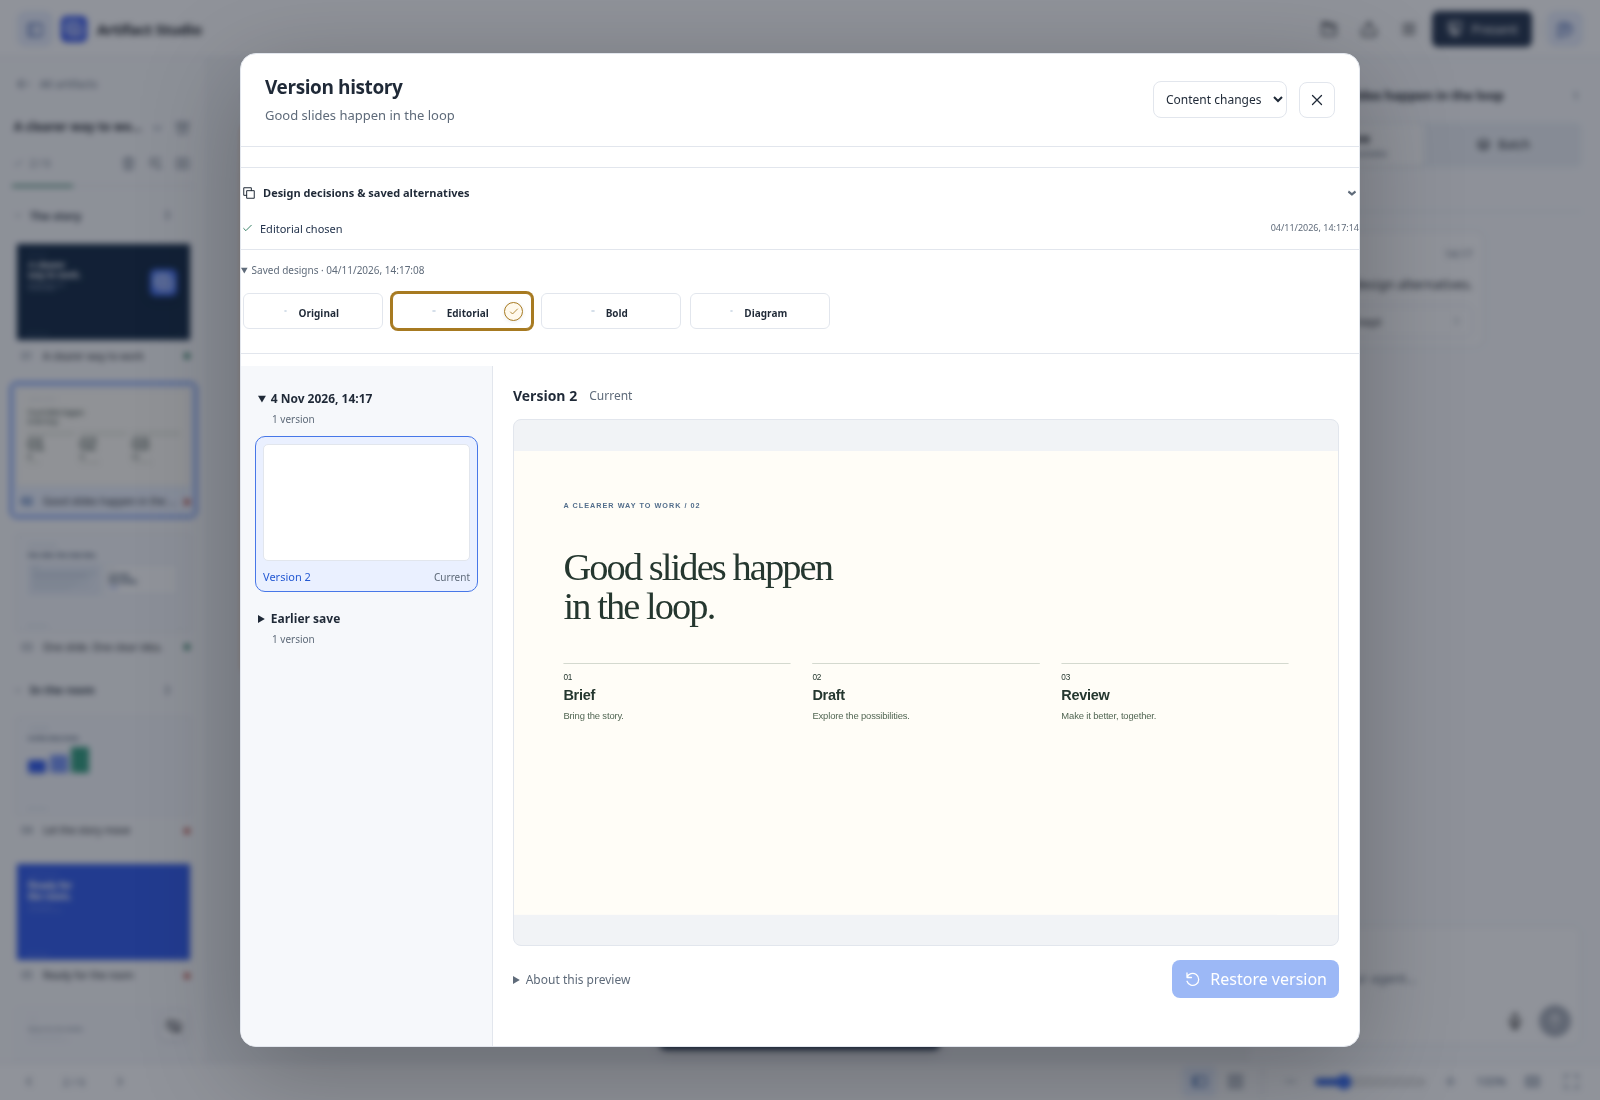
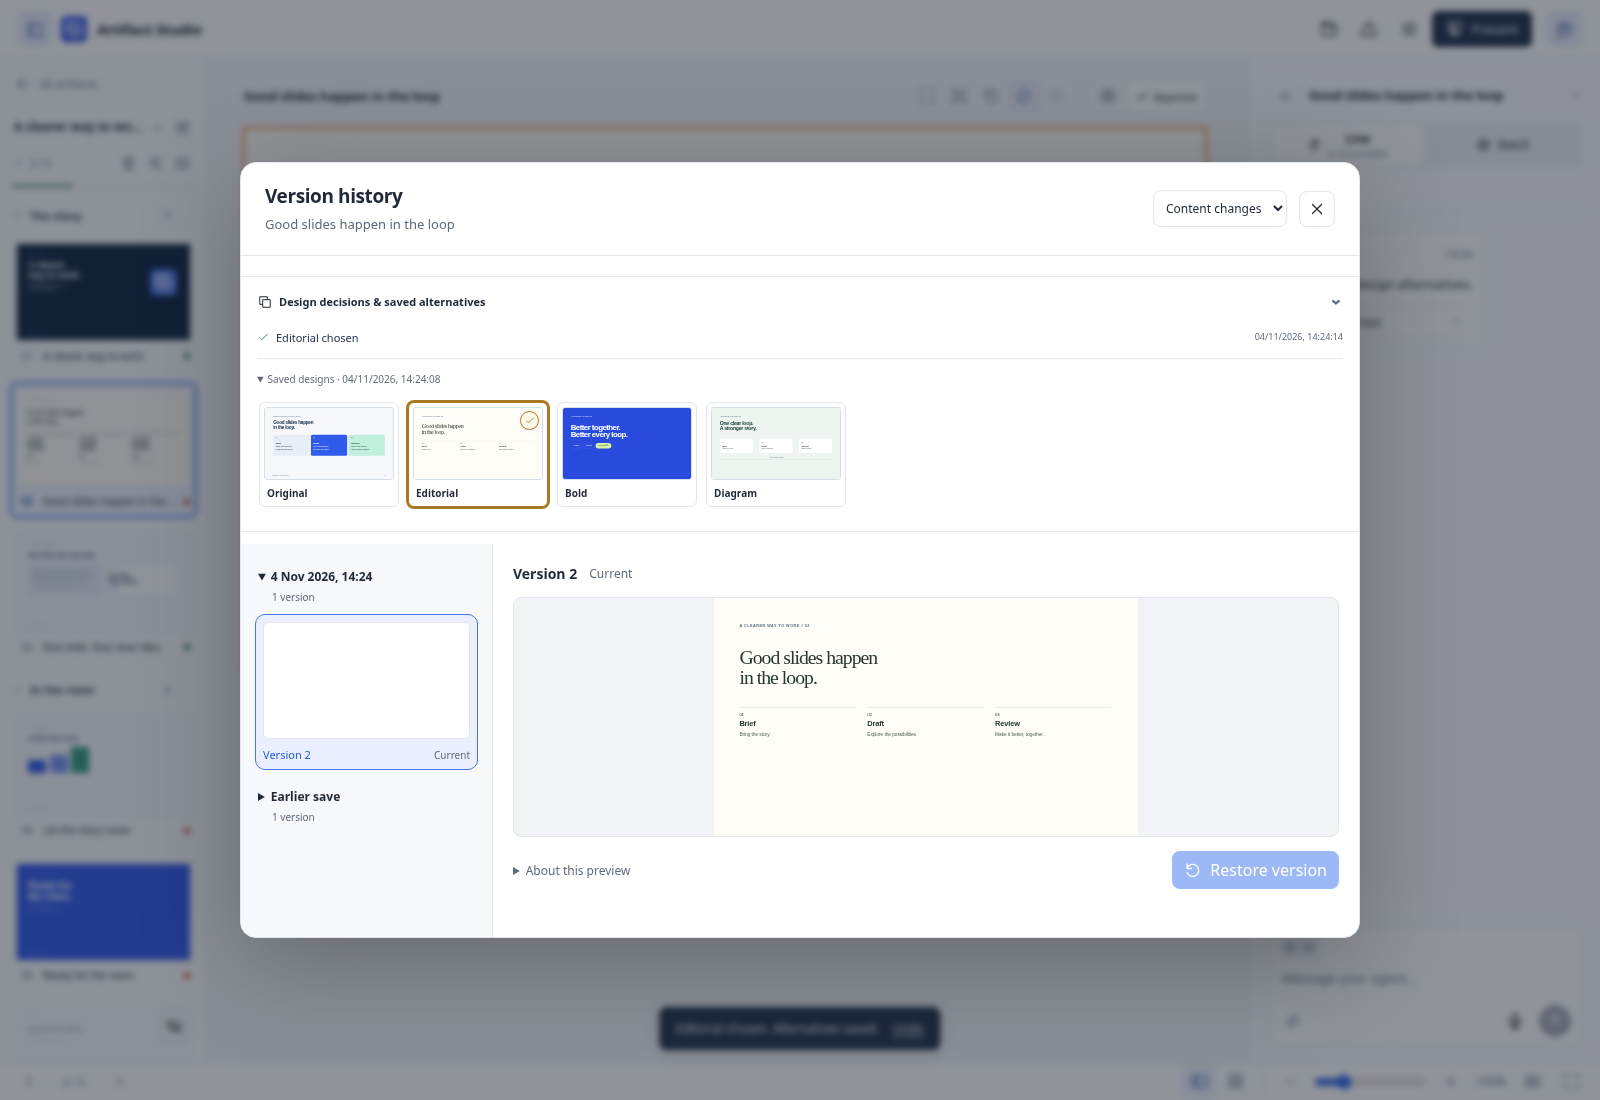
Keep saved design thumbnails readable and history controls within view

diff --git a/web/slide-designs.css b/web/slide-designs.css
@@ -27,7 +27,7 @@
 .sd-options>[data-sd-chosen=true],.sd-saved-options>[data-sd-chosen=true]{border-color:var(--sd-chosen);box-shadow:0 0 0 2px var(--sd-chosen)}
 .sd-chosen-mark{position:absolute;right:8px;top:8px;width:19px;height:19px;display:grid;place-items:center;background:var(--sd-chosen-surface);border:1px solid var(--sd-chosen);border-radius:50%;color:var(--sd-chosen);box-shadow:0 1px 4px #13273c15}
 .sd-chosen-mark .ui-icon{width:12px;height:12px}
-.sd-chosen-frame{border-color:var(--sd-chosen);box-shadow:0 0 0 2px var(--sd-chosen)}
+.sd-chosen-frame{border:3px solid var(--sd-chosen);box-shadow:none}
 .sd-frame-slot{display:block;position:relative;aspect-ratio:16/9;overflow:hidden;border:1px solid #d5dfea;border-radius:3px;background:#f6f8fc;container-type:inline-size}
 .sd-frame-slot iframe,.sd-canvas-overlay iframe{position:absolute;left:0;top:0;border:0;transform-origin:0 0;display:block;background:#fff}
 .sd-frame-slot[aria-hidden=true] iframe{pointer-events:none}
@@ -91,7 +91,10 @@
 .sd-compare>footer>div{display:flex;align-items:center;gap:8px;flex-wrap:wrap;justify-content:flex-end}
 .sd-compare>footer button{font-size:12px;min-height:35px;white-space:nowrap}
 .sd-compare>footer>[data-sd-keep]{border-color:transparent;background:transparent;color:var(--subtle)}
-.sd-history{flex:none;border-block:1px solid var(--line);padding:10px 0;margin-bottom:12px;max-height:42dvh;overflow:auto;scrollbar-width:thin}
+.version-history:has(>.sd-history)[open]{display:flex;flex-direction:column;max-height:calc(100dvh - 48px);overflow:hidden}
+.version-history:has(>.sd-history)>header{flex:none}
+.version-history:has(>.sd-history)>.version-layout{flex:1;min-height:0}
+.sd-history{flex:none;border-block:1px solid var(--line);padding:10px 16px;margin-bottom:12px;max-height:42dvh;overflow:auto;scrollbar-width:thin}
 .sd-history>summary{display:flex;gap:7px;align-items:center;list-style:none;font-size:11px;font-weight:550;cursor:pointer;padding:3px 1px}
 .sd-history>summary::after{content:'›';margin-left:auto;font-size:18px;color:var(--subtle)}
 .sd-history[open]>summary::after{transform:rotate(90deg)}
@@ -102,7 +105,7 @@
 .sd-saved-group{padding:8px 0;border-top:1px solid var(--line)}
 .sd-saved-group>summary{font-size:10px;color:var(--subtle);padding:5px 0}
 .sd-saved-options{display:flex;gap:9px;overflow:auto;margin-top:9px;padding:2px 2px 6px}
-.sd-saved-options>button{position:relative;width:140px;flex:none;padding:4px;border-radius:6px;background:var(--surface,#fff);text-align:left}
+.sd-saved-options>button{display:block;position:relative;width:140px;flex:none;padding:4px;border-radius:6px;background:var(--surface,#fff);text-align:left}
 .sd-saved-options strong{display:block;font-size:10px;font-weight:550;padding:6px 3px 2px}
 :root[data-theme=dark] .sd-toggle{background:var(--selected)!important;color:var(--link)!important;border-color:#6681b0!important}
 :root[data-theme=dark] :is(.sd-tray,.sd-history,.sd-compare){--sd-chosen:#e3bb62;--sd-chosen-surface:#3c3220}

diff --git a/tests/integration/test_slide_designs.py b/tests/integration/test_slide_designs.py
@@ -104,6 +104,11 @@ def test_design_publication_preview_feedback_keep_reload_history_and_undo(
     expect(saved).not_to_have_attribute("open", "")
     saved.locator(":scope > summary").click()
     expect(saved).to_contain_text("Kept current design")
+    thumbnail = saved.locator(".sd-saved-options .sd-frame-slot").first.bounding_box()
+    assert thumbnail and thumbnail["width"] >= 100 and thumbnail["height"] >= 55
+    restore = page.locator(".version-restore").bounding_box()
+    assert restore and page.viewport_size
+    assert restore["y"] + restore["height"] <= page.viewport_size["height"]
     page.get_by_role("button", name="Preview saved Editorial design", exact=True).click()
     expect(page.frame_locator(".sd-canvas-overlay iframe").locator("h1")).to_have_text(
         "Editorial direction"
